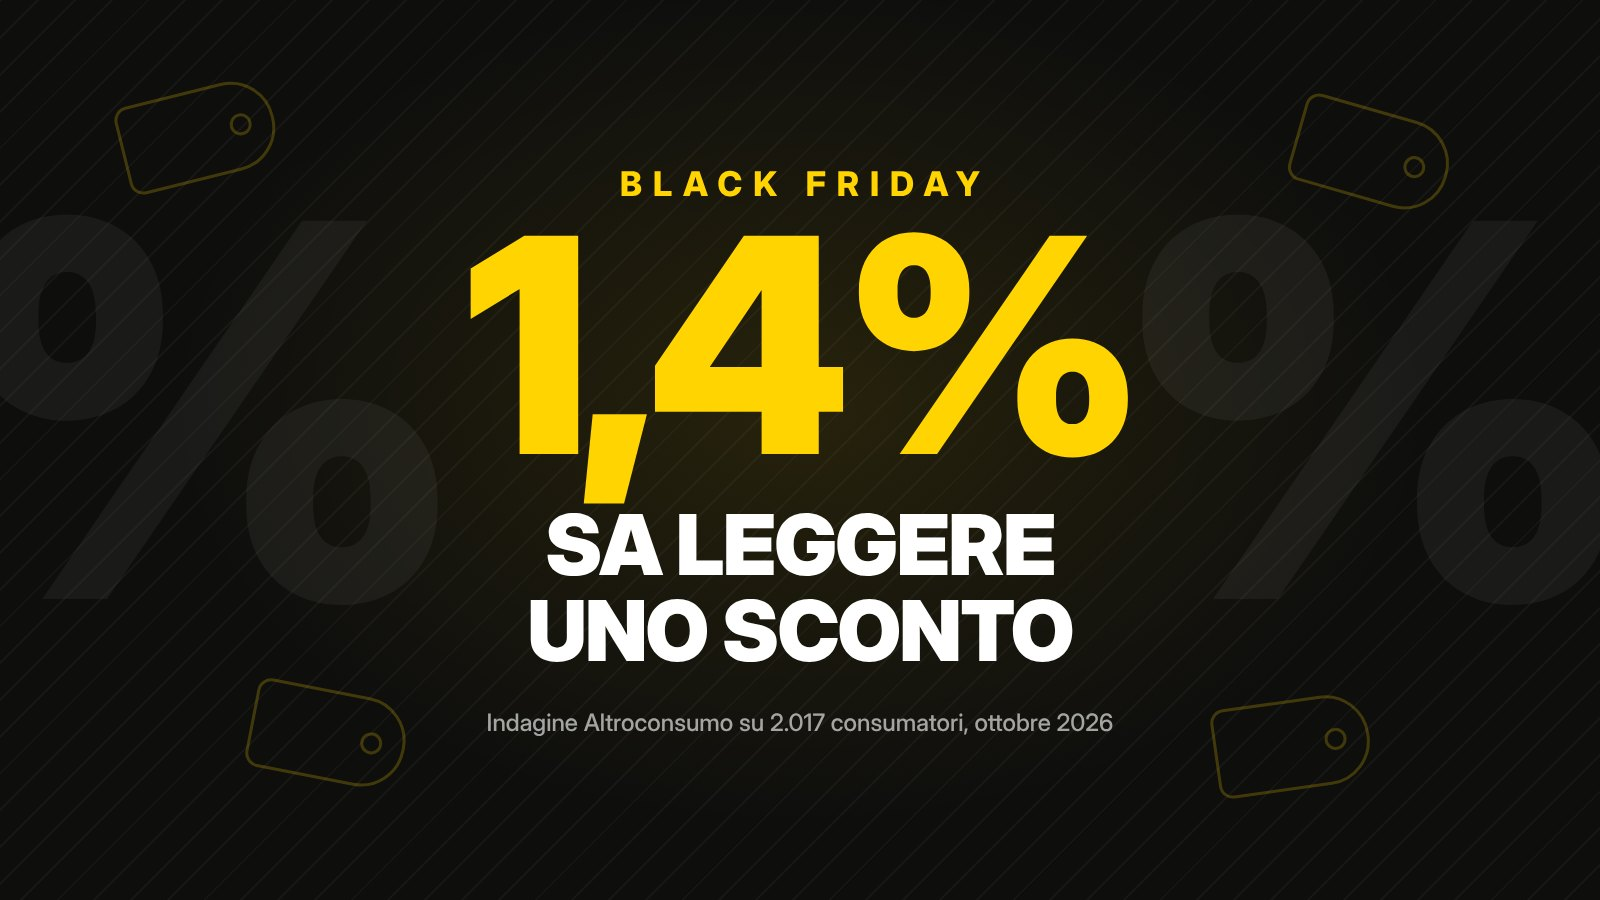
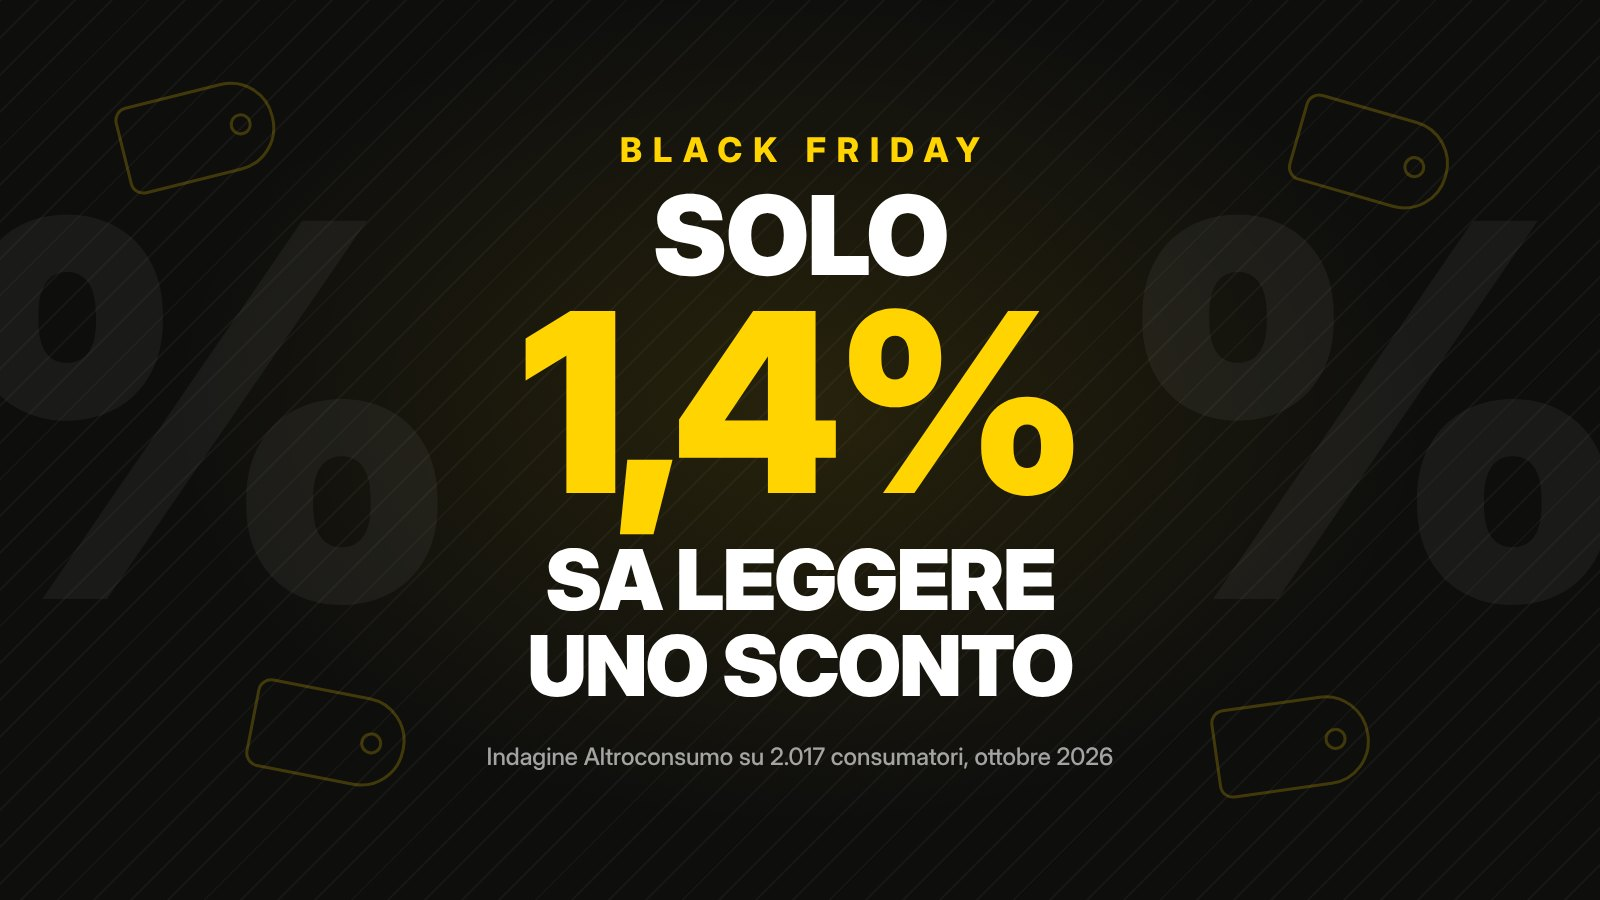
Newsletter Black Friday: testo più lungo (723 parole), copertina con SOLO, bozza aggiornata su Ghost e nella pagina riservata
Claude-Session: https://claude.ai/code/session_016UhwjKG31ar8b5EsWG7Tr8

Changed region(s): [[0.2812, 0.1556, 0.7188, 0.8711]]

diff --git a/newsletter/bozze/2026-11-20-black-friday.html b/newsletter/bozze/2026-11-20-black-friday.html
@@ -1,11 +1,15 @@
 <p><strong>Altroconsumo</strong> ha messo alla prova <strong>2.017 consumatori</strong> tra i 18 ed i 74 anni (l’indagine è dell’ottobre 2026) con una domanda in apparenza banale: quali informazioni deve mostrare chi vi propone uno sconto? Soltanto l’<strong>1,4%</strong> ha indicato correttamente tutti gli elementi richiesti. Lo riporta Affaritaliani, il 12 novembre.</p>
 <p>La risposta giusta, secondo i risultati ripresi dall’articolo, è il prezzo promozionale ed il prezzo più basso applicato nei 30 giorni precedenti. Quest’ultimo, però, lo ha indicato tra le informazioni obbligatorie appena il <strong>13%</strong> degli intervistati. In altre parole, a pochi giorni dal Black Friday (venerdì <strong>27 novembre</strong>, con gli sconti che proseguono fino al Cyber Monday del 30) quasi nove persone su dieci non sanno qual è il numero che dovrebbe smascherare lo sconto “fantasia”.</p>
 <p>Gli italiani, in compenso, comprano. Sempre secondo Altroconsumo, l’<strong>83%</strong> degli intervistati intende fare acquisti, con una spesa media di <strong>246 euro</strong> per chi ha già programmato di farlo (nel 2025, secondo la stessa fonte, chi ha comprato ha speso 250 euro). Il 67% prevede di acquistare esclusivamente o prevalentemente online.</p>
+<p>In cima alla lista dei desideri ci sono abbigliamento, scarpe ed accessori (58% di chi prevede acquisti), seguiti da tecnologia (33%) e piccoli elettrodomestici (27%). C’è poi un dato che dice molto sul clima di questi giorni: il <strong>35%</strong> di chi ha partecipato al Black Friday 2025 ammette di aver fatto almeno un acquisto non programmato. Il risparmio? Gli intervistati lo stimano in <strong>107 euro</strong> (circa il 30%), ma si tratta, precisa l’articolo, di una valutazione personale e non verificata.</p>
+<p>Ed è proprio qui che i conti rischiano di non tornare. Una precedente indagine della stessa associazione, citata da Affaritaliani, su <strong>208 siti</strong> di commercio elettronico aveva rilevato che sei negozi online su dieci presentavano sconti non corretti o poco trasparenti.</p>
 <h3>Quando il prezzo “pieno” non esiste</h3>
-<p>Che cosa succede quando il prezzo di riferimento è un’invenzione lo ha raccontato l’Antitrust a gennaio. L’Autorità ha sanzionato <strong>Poltronesofà</strong> con <strong>un milione di euro</strong> per pratica commerciale scorretta. Secondo Punto Informatico, che cita il Bollettino settimanale dell’Autorità n. 1/2026, nella “Collezione Promo” veniva mostrato un prezzo pieno barrato su cui era calcolato lo sconto, ma quel prezzo, sempre per l’Autorità, non veniva mai applicato.</p>
-<p>Le campagne, diffuse in tv, radio, sul sito ed in social, risalirebbero al periodo tra gennaio 2023 e febbraio 2025. L’istruttoria, ricorda l’articolo, è partita anche dopo le segnalazioni di singoli consumatori ed Altroconsumo.</p>
+<p>Che cosa succede quando il prezzo di riferimento è un’invenzione lo ha raccontato l’Antitrust a gennaio. L’Autorità ha sanzionato <strong>Poltronesofà</strong> con <strong>un milione di euro</strong> per pratica commerciale scorretta. Secondo Punto Informatico, che cita il Bollettino settimanale dell’Autorità n. 1/2026, nella “Collezione Promo” (tra i tre ed i cinque modelli di divani) veniva mostrato un prezzo pieno barrato su cui era calcolato lo sconto, ma quel prezzo, sempre per l’Autorità, non veniva mai applicato.</p>
+<p>L’Autorità contesta anche un “effetto aggancio” ingannevole ed una violazione degli articoli 20, 21 e 22 del Codice del consumo. Le campagne, diffuse in tv, radio, sul sito e sui social, risalirebbero al periodo tra gennaio 2023 e febbraio 2025. L’istruttoria, ricorda l’articolo, è partita anche dopo le segnalazioni di singoli consumatori ed Altroconsumo.</p>
+<p>Non è, per altro, la prima volta. Secondo il comunicato dell’Autorità, già il 2 aprile 2021 l’Antitrust aveva multato l’azienda per <strong>un milione di euro</strong>, in quel caso per la promozione “25% di sconto + un altro 25% su tutta la collezione” diffusa nel settembre 2020.</p>
 <p>Poltronesofà, per quanto riportato, può presentare ricorso al TAR del Lazio entro 60 giorni. Non ci risulta, al momento, una replica pubblica dell’azienda: se arriverà, la riporteremo.</p>
 <h3>I consigli del Garante per la privacy</h3>
 <p>Il Garante per la protezione dei dati personali, nell’avviso ripreso da Open il 13 novembre, invita a diffidare degli sconti troppo alti, soprattutto se chiedono di cliccare un link, lasciare dati o compilare un sondaggio. Se l’offerta arriva via mail, sms o social, il consiglio è di digitare a mano l’indirizzo del sito.</p>
 <p>Per i pagamenti suggerisce le carte prepagate e le notifiche attive su conto e carta. Il lucchetto accanto all’indirizzo, precisa Open, “non dimostra da solo che il venditore sia serio”. Stesso discorso per i falsi pacchi: nessun clic sui link dei messaggi sulle consegne, meglio il sito o l’app ufficiale del corriere.</p>
+<p>Prima di fidarsi di un venditore sconosciuto, il Garante suggerisce di cercarne i contatti e di confrontare più fonti; se il browser segnala un sito pericoloso, meglio fermarsi lì. E per chi approfitta degli sconti per cambiare telefono, il consiglio è di fare una copia dei dati, togliere SIM e scheda di memoria e ripristinare le impostazioni di fabbrica prima di vendere o dare via quello vecchio. Infine aggiornamenti di sicurezza installati subito ed autenticazione a due fattori attiva.</p>
 <p>Le domande, a questo punto, sono due: quanti negozi mostreranno davvero, accanto allo sconto, il prezzo più basso dei 30 giorni precedenti? E quanti consumatori sapranno cosa cercare? Ne riparleremo a Black Friday concluso.</p>

diff --git a/newsletter/bozze/2026-11-20-black-friday-copertina.html b/newsletter/bozze/2026-11-20-black-friday-copertina.html
@@ -10,13 +10,14 @@ html,body{margin:0;width:1600px;height:900px;overflow:hidden;background:#0e0e0d;
 .t1{left:120px;top:90px}.t2{left:250px;top:690px;transform:rotate(11deg)}.t3{right:150px;top:110px;transform:rotate(16deg)}.t4{right:230px;top:700px;transform:rotate(-8deg)}
 .c{position:absolute;left:440px;top:60px;width:720px;height:780px;display:flex;flex-direction:column;align-items:center;justify-content:center;text-align:center;color:#fff}
 .lab{font-weight:800;font-size:34px;letter-spacing:.32em;color:#ffd400;margin-bottom:6px;padding-left:.32em}
-.num{font-weight:900;font-size:300px;line-height:.9;letter-spacing:-.04em;color:#ffd400}
+.solo{font-weight:900;font-size:110px;line-height:1;letter-spacing:-.01em;color:#fff;margin-top:4px}
+.num{font-weight:900;font-size:250px;line-height:.9;letter-spacing:-.04em;color:#ffd400}
 .txt{font-weight:900;font-size:84px;line-height:1.02;letter-spacing:-.015em;margin-top:22px;text-transform:uppercase}
 .fonte{margin-top:34px;font-weight:500;font-size:24px;color:rgba(255,255,255,.62)}
 </style></head><body><div class="bg"></div>
 <div class="pct sx">%</div><div class="pct dx">%</div>
 <div class="tag t1"></div><div class="tag t2"></div><div class="tag t3"></div><div class="tag t4"></div>
-<div class="c"><div class="lab">BLACK FRIDAY</div><div class="num">1,4%</div>
+<div class="c"><div class="lab">BLACK FRIDAY</div><div class="solo">SOLO</div><div class="num">1,4%</div>
 <div class="txt">sa leggere<br>uno sconto</div>
 <div class="fonte">Indagine Altroconsumo su 2.017 consumatori, ottobre 2026</div></div>
 </body></html>

diff --git a/cloudflare/anteprime-newsletter/src/worker.js b/cloudflare/anteprime-newsletter/src/worker.js
@@ -525,8 +525,16 @@ async function ghostBozza(request, env) {
     if (b.image_alt) post.feature_image_alt = String(b.image_alt).slice(0, 191);
     if (b.image_caption) post.feature_image_caption = String(b.image_caption).slice(0, 500);
   }
-  const r = await ghost(env, 'POST', '/posts/?source=html', { posts: [post] });
-  const p = r.posts[0];
+  let p;
+  if (b.postId) {
+    const pid = encodeURIComponent(String(b.postId));
+    const cur = await ghost(env, 'GET', '/posts/' + pid + '/');
+    if (cur.posts[0].status !== 'draft') throw new HttpError(409, 'Il post su Ghost non è più una bozza: non lo modifico');
+    post.updated_at = cur.posts[0].updated_at;
+    p = (await ghost(env, 'PUT', '/posts/' + pid + '/?source=html', { posts: [post] })).posts[0];
+  } else {
+    p = (await ghost(env, 'POST', '/posts/?source=html', { posts: [post] })).posts[0];
+  }
   if (b.draftId && /^[0-9a-f-]{36}$/.test(String(b.draftId))) {
     const d = await getDraft(env, String(b.draftId));
     if (d) { d.ghostPostId = p.id; await putDraft(env, d); }

diff --git a/newsletter/bozze/2026-11-20-black-friday.NOTE.md b/newsletter/bozze/2026-11-20-black-friday.NOTE.md
@@ -9,7 +9,12 @@
 - Punto Informatico, 09/01/2026 (Luca Colantuoni): multa AGCM a Poltronesofà, 1 milione, prezzi di riferimento ingannevoli, “Collezione Promo”, campagne gennaio 2023-febbraio 2025, segnalazioni di consumatori e Altroconsumo, ricorso al TAR Lazio entro 60 giorni; cita il Bollettino AGCM n. 1/2026. https://www.punto-informatico.it/poltronesofa-multa-milione-prezzi-ingannevoli/
 - Open, 13/11/2026 (Michela De Marchi Giusto): consigli del Garante privacy; Black Friday 27/11, Cyber Monday 30/11. https://www.open.online/2026/11/13/black-friday-garante-privacy-consigli-sconti-acquisti-online/
 
+- Comunicato Antitrust (aprile 2021, PS11785): multa di 1 milione a Poltronesofà con decisione del 2 aprile 2021 per la promozione “25% di sconto + un altro 25% su tutta la collezione” (settembre 2020). https://en.agcm.it/en/media/press-releases/2021/4/PS11785 (riassunto da ricerca, pagina non letta per intero)
+- Dati aggiunti dall'articolo di Affaritaliani: categorie 58/33/27%, 35% acquisti non programmati nel 2025, risparmio stimato 107 euro (valutazione personale), indagine precedente su 208 siti (“sei negozi online su dieci”).
+- Dati aggiunti da Open: contatti del venditore, avvisi del browser, telefono usato, aggiornamenti e autenticazione a due fattori.
+
 ## [DA VERIFICARE] prima dell'invio
+- Esito dei ricorsi sulla multa 2021 (non citato nel testo: le fonti trovate sono discordanti).
 - Data e numero del provvedimento AGCM su Poltronesofà: non presenti nell'articolo. Meglio controllare il Bollettino n. 1/2026 sul sito dell'Autorità (non letto) e linkare il documento primario.
 - Base di calcolo dei 246 euro (tutti gli intervistati o solo chi ha programmato acquisti): il testo scrive “per chi ha già programmato”, riportato così.
 - Replica di Poltronesofà: non trovata. Se l'azienda risponde, aggiungerla.
